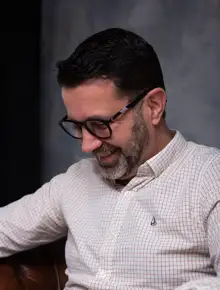
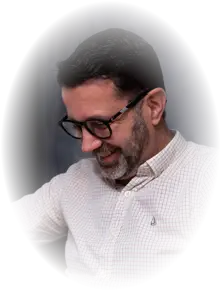
Jornada: bordas das cenas em degrade, miniaturas com transparencia embutida, canvas mais leve

diff --git a/pages/jornada.css b/pages/jornada.css
@@ -9,12 +9,9 @@
 .jr-orbita { position: absolute; inset: 0; perspective: 1100px; perspective-origin: 50% 42%; --cw: 118px; }
 .jr-anel { position: absolute; left: 50%; top: 42%; width: 0; height: 0; transform-style: preserve-3d; transform: rotateX(-10deg); }
 .jr-carta { position: absolute; width: var(--cw); height: calc(var(--cw) * 1.32);
-  margin: calc(var(--cw) * -.66) 0 0 calc(var(--cw) * -.5); will-change: transform, opacity;
-  /* bordas esmaecidas: o retrato se dissolve no fundo em vez de terminar num corte seco */
-  -webkit-mask-image: radial-gradient(ellipse 50% 50% at 50% 50%, #000 52%, transparent 100%);
-          mask-image: radial-gradient(ellipse 50% 50% at 50% 50%, #000 52%, transparent 100%); }
+  margin: calc(var(--cw) * -.66) 0 0 calc(var(--cw) * -.5); will-change: transform, opacity; }
+/* as bordas esmaecidas já vêm na própria imagem (transparência), sem máscara pesada em tempo real */
 .jr-carta img { width: 100%; height: 100%; object-fit: cover; display: block; }
-.jr-sombra { position: absolute; inset: 0; background: #000; }
 
 /* feixe em CSS: usado onde não há canvas (aparelho fraco ou "menos movimento") */
 .jr-feixe-css { display: none; position: absolute; left: 50%; top: 0; bottom: 0; width: min(18vw, 140px); transform: translateX(-50%);
@@ -49,6 +46,11 @@ body:has(.jr-root) footer { position: relative; z-index: 1; }
 /* ---------- Cena ---------- */
 .jr-trilho { position: relative; height: 300svh; --p: 0; --mx: 0; --my: 0; }
 .jr-palco { position: sticky; top: 0; height: 100svh; overflow: hidden; background: #09090b; }
+/* Na passagem de uma cena para a outra, a borda horizontal da cena vira um degradê e se dissolve no fundo,
+   em vez de um corte seco. Só vale durante a passagem; no resto da cena não há máscara. */
+.jr-bordas .jr-palco {
+  -webkit-mask-image: linear-gradient(to bottom, transparent 0, #000 var(--ft, 0px), #000 calc(100% - var(--fb, 0px)), transparent 100%);
+          mask-image: linear-gradient(to bottom, transparent 0, #000 var(--ft, 0px), #000 calc(100% - var(--fb, 0px)), transparent 100%); }
 
 .jr-camada { position: absolute; inset: 0; }
 /* só as cenas perto da tela ganham camada própria na GPU: com todas as doze, o celular sofre e a imagem "craquela" */

diff --git a/components/jornada/Fundo.tsx b/components/jornada/Fundo.tsx
@@ -39,7 +39,7 @@ export const Fundo: React.FC = () => {
     const medir = () => {
       w = window.innerWidth; h = window.innerHeight;
       const largo = w >= 768;
-      dpr = Math.min(window.devicePixelRatio || 1, 1.5);
+      dpr = 1; // o feixe é suave e as partículas minúsculas: resolução cheia só gastaria bateria
       cv.width = Math.round(w * dpr); cv.height = Math.round(h * dpr);
       ctx?.setTransform(dpr, 0, 0, dpr, 0, 0);
       raio = largo ? 380 : 230; cw = largo ? 190 : 118; passo = largo ? 30 : 20;
@@ -61,8 +61,7 @@ export const Fundo: React.FC = () => {
         // a carta sempre olha para a tela (billboard): gira em volta e desgira em si mesma
         el.style.transform =
           `rotateY(${th}deg) translateZ(${raio}px) translateY(${(i - 5.5) * passo}px) rotateY(${-th}deg)`;
-        el.style.opacity = String(luz * (1 - 0.6 * dimTexto));
-        (el.lastElementChild as HTMLElement).style.opacity = String(0.65 * (1 - k)); // sombra: mais escura atrás
+        el.style.opacity = String(luz * (1 - 0.6 * dimTexto)); // atrás: apagado; na frente: aceso
       }
     };
     posicionar(0);
@@ -213,7 +212,6 @@ export const Fundo: React.FC = () => {
           {MINIATURAS.map((src) => (
             <div key={src} className="jr-carta">
               <img src={src} alt="" width={220} height={290} decoding="async" />
-              <div className="jr-sombra" />
             </div>
           ))}
         </div>

diff --git a/pages/Jornada.tsx b/pages/Jornada.tsx
@@ -45,6 +45,15 @@ const Cena: React.FC<{ cena: CenaJornada; numero: number }> = ({ cena, numero })
       const cobre = r.top <= 0 && r.bottom >= window.innerHeight;
       if (cobre) estado.cobertos.add(cena.id); else estado.cobertos.delete(cena.id);
       const visivel = r.bottom > 0 && r.top < window.innerHeight;
+      // borda em degradê enquanto uma extremidade da cena está à vista (passagem entre cenas)
+      const vh = window.innerHeight;
+      const passando = visivel && !cobre;
+      el.classList.toggle('jr-bordas', passando);
+      if (passando) {
+        const L = vh * 0.24;
+        el.style.setProperty('--ft', `${Math.max(0, Math.min(L, r.top)).toFixed(0)}px`);
+        el.style.setProperty('--fb', `${Math.max(0, Math.min(L, vh - r.bottom)).toFixed(0)}px`);
+      }
       // camadas pesadas só enquanto a cena está perto da tela
       el.classList.toggle('jr-ativa', r.bottom > -window.innerHeight * 0.5 && r.top < window.innerHeight * 1.5);
       const s = (x: number) => Math.min(1, Math.max(0, x));
